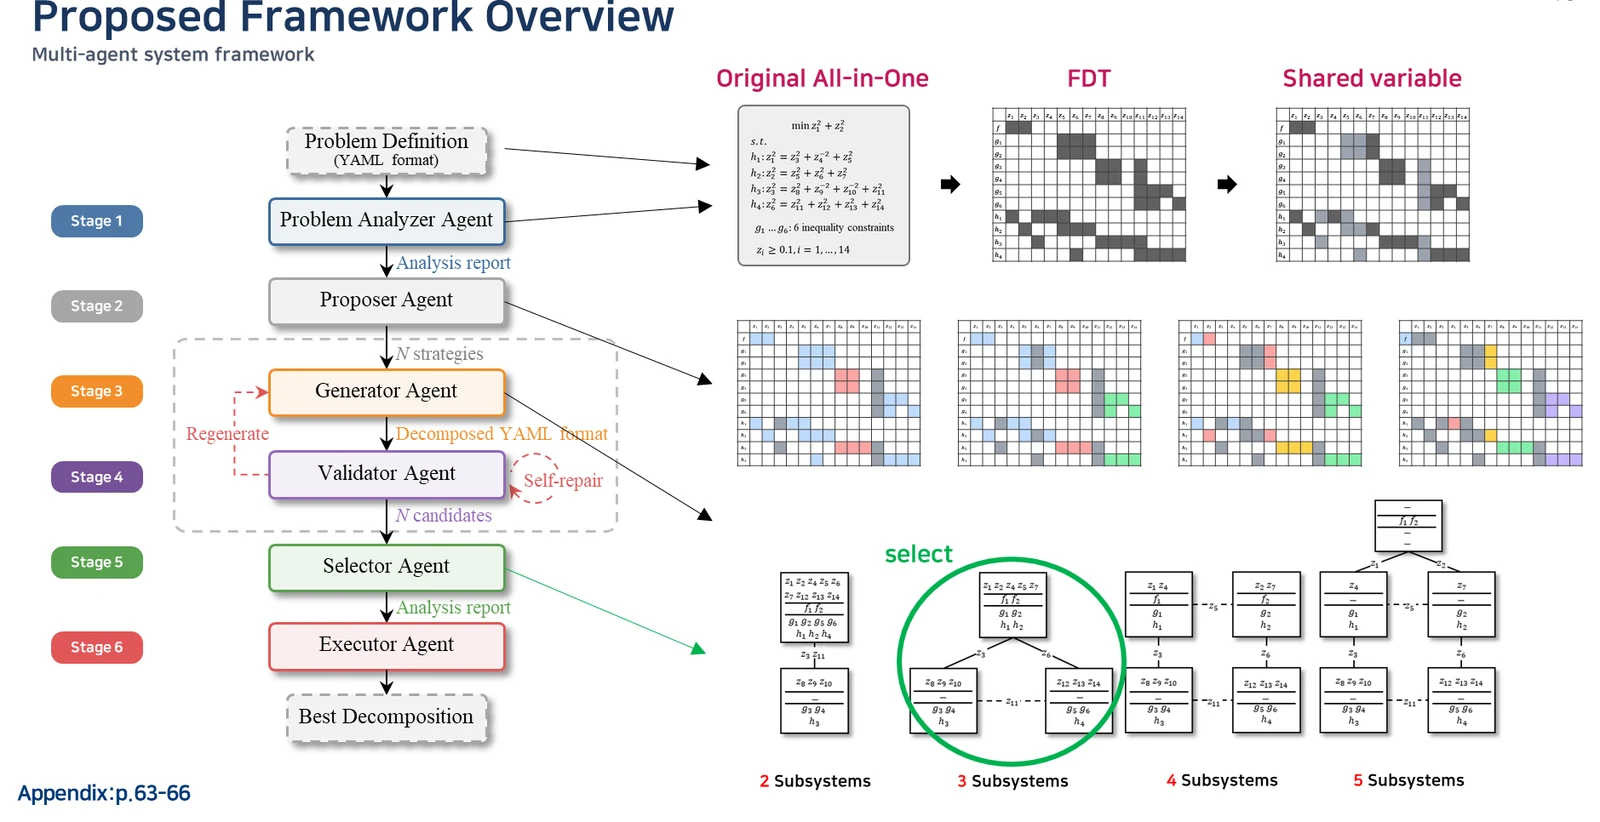
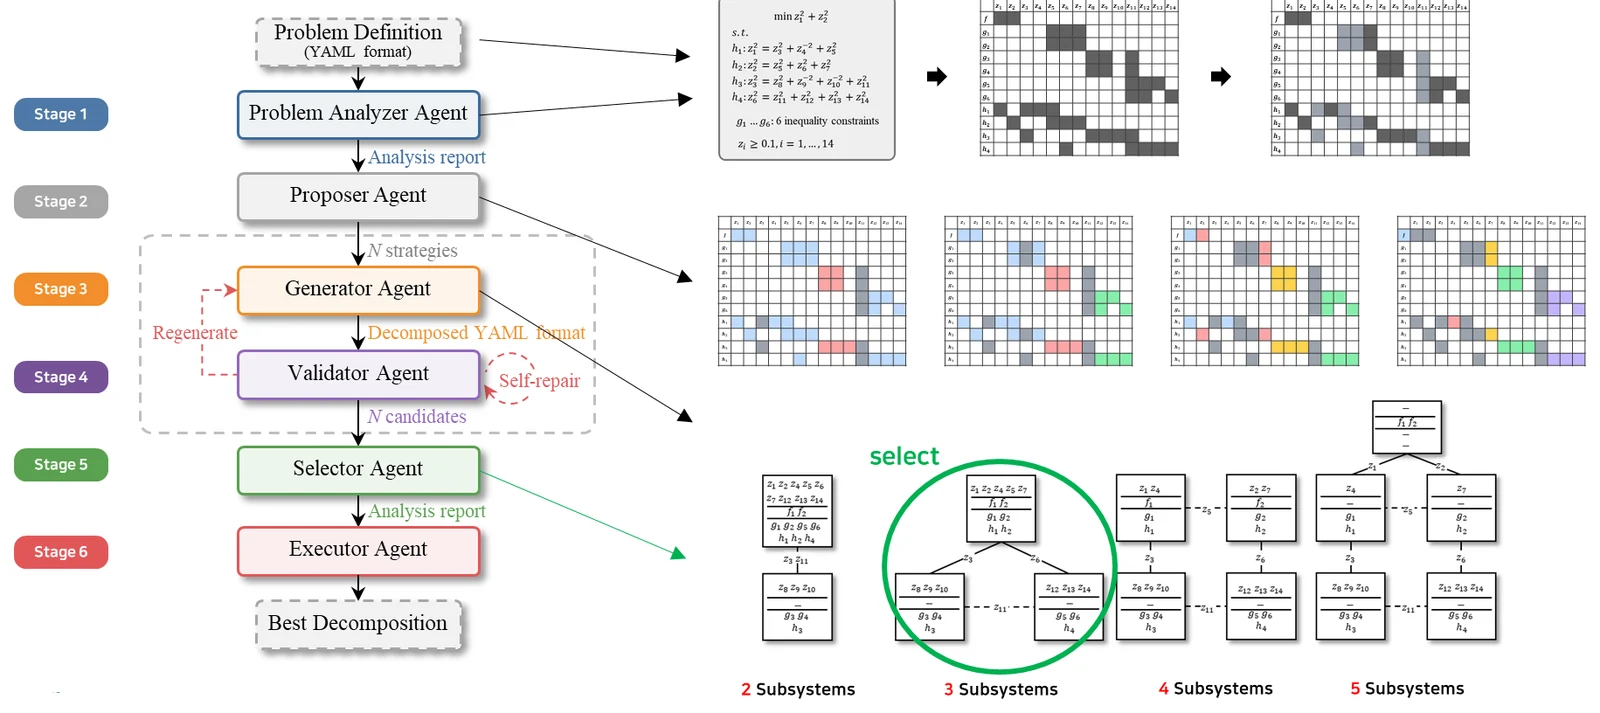
AI News: single toggled graph + trimmed header; refine research figures
AI News:
- Drop the "Curated daily AI updates" tagline.
- Replace the two stacked graph cards with one card that toggles between
  Overview (default, 30-day concept map) and Daily (selected-day items).
  Both views share one container/network/related panel; the per-day news
  list (GitHub / HF / GeekNews) stays visible under either view.

Research figures:
- LLM-Guided Adaptive Penalty: use proposal slide 31 (full framework
  overview) instead of 32.
- AutoATC: crop out the slide title and Appendix footer.
- DialogCAD: white background, and add a 2x1 right column with the CSG
  primitives and benchmark mechanical parts figures.

diff --git a/ai-news.html b/ai-news.html
@@ -97,14 +97,15 @@
       text-transform: none;
       letter-spacing: 0;
     }
-    #overview-graph, #daily-graph {
+    #concept-graph {
       width: 100%;
+      height: 560px;
       border: 1px solid #f0f0f0;
       border-radius: .375rem;
       background: #fafbfc;
     }
-    #overview-graph { height: 560px; }
-    #daily-graph    { height: 460px; }
+    .view-btn { font-size: .7rem !important; font-weight: 600 !important; text-transform: none !important; letter-spacing: 0 !important; padding: .2rem .6rem !important; }
+    .view-btn.active { background: #212529 !important; color: #fff !important; }
     .vis-network:focus { outline: none; }
     div.vis-tooltip {
       max-width: 320px;
@@ -305,9 +306,8 @@
     <div class="row justify-content-center mb-4">
       <div class="col-lg-10 text-center">
         <h1 class="section-title">AI News Daily</h1>
-        <p class="lead text-muted mb-1">Curated daily AI updates</p>
-        <p class="text-muted mb-1">GitHub Trending · Hugging Face Papers · GeekNews</p>
-        <p class="text-muted small">Automatically collected and updated every morning</p>
+        <p class="lead text-muted mb-1">GitHub Trending · Hugging Face Papers · GeekNews</p>
+        <p class="text-muted small mb-0">Automatically collected and updated every morning</p>
       </div>
     </div>
 
@@ -327,30 +327,25 @@
           </div>
         </div>
 
-        <!-- Section 1 · Overview map of concepts across the last N days -->
+        <!-- Concept graph — Overview (30d) / Daily toggle -->
         <div class="graph-card">
           <h6>
-            <span><i class="bi bi-diagram-3 me-1"></i>Overview <span class="subtitle" id="overview-subtitle">— concepts across the last 30 days</span></span>
+            <span><i class="bi bi-diagram-3 me-1"></i>Concept Graph <span class="subtitle" id="graph-subtitle">— concepts across the last 30 days</span></span>
+            <span class="btn-group btn-group-sm" role="group" aria-label="Graph view">
+              <button type="button" class="btn btn-outline-dark view-btn active" data-view="overview">Overview</button>
+              <button type="button" class="btn btn-outline-dark view-btn" data-view="daily">Daily</button>
+            </span>
           </h6>
-          <div id="overview-graph"></div>
-          <div id="overview-related" class="concept-related mt-3" style="display:none"></div>
-        </div>
-
-        <!-- Section 2 · Item-level relationship graph for the selected day -->
-        <div class="graph-card mt-4">
-          <h6>
-            <span><i class="bi bi-diagram-3 me-1"></i>Daily <span class="subtitle" id="daily-subtitle">— shared keywords across the selected day's items</span></span>
-          </h6>
-          <div id="daily-graph"></div>
-          <div class="graph-legend">
+          <div id="concept-graph"></div>
+          <div class="graph-legend" id="graph-legend-daily" style="display:none">
             <span><span class="dot" style="background:#f97316"></span>GitHub Trending</span>
             <span><span class="dot" style="background:#0d6efd"></span>HF Papers</span>
             <span><span class="dot" style="background:#198754"></span>GeekNews</span>
           </div>
-          <div id="daily-related" class="concept-related mt-3" style="display:none"></div>
+          <div id="concept-related" class="concept-related mt-3" style="display:none"></div>
         </div>
 
-        <!-- Section 3 · News list for the selected day -->
+        <!-- News list for the selected day (always shown, under either view) -->
         <div class="ai-news-layout mt-4">
           <!-- Desktop sidebar -->
           <div class="date-sidebar" id="date-sidebar">
@@ -455,6 +450,8 @@
       if (sel) sel.value = date;
       currentDate = date;
       renderNews(date);
+      // If the Daily graph is currently on screen, refresh it for the new date.
+      if (currentView === 'daily' && dataCache[date]) renderGraph(date, dataCache[date]);
     }
 
     function renderSidebar(dates, active) {
@@ -498,13 +495,14 @@
       sel.onchange = () => selectDate(sel.value);
     }
 
+    // Renders ONLY the day's news list (GitHub / HF / GeekNews). The graph area
+    // is driven separately by the Overview/Daily toggle.
     async function renderNews(date) {
       const panel = document.getElementById('news-panel');
       panel.innerHTML = `<div class="d-flex align-items-center justify-content-center py-5 text-muted">
         <div class="spinner-border spinner-border-sm me-2"></div>Loading…</div>`;
       const data = await loadDay(date);
       renderPanel(data);
-      renderGraph(date, data);
     }
 
     // ---- Concept graph ----
@@ -688,12 +686,12 @@
       return shortenLabel(englishTitle || (HANGUL_RE.test(koreanTitle) ? '' : koreanTitle), 18) || '—';
     }
 
-    let dailyNetwork = null;
-    let overviewNetwork = null;
+    // One graph container shared by both views; only one view is shown at a time.
+    let network = null;
 
     function renderGraph(date, data) {
-      const container = document.getElementById('daily-graph');
-      const subtitle = document.getElementById('daily-subtitle');
+      const container = document.getElementById('concept-graph');
+      const subtitle = document.getElementById('graph-subtitle');
       if (!container) return;
       if (!data) {
         container.innerHTML = '<div class="d-flex align-items-center justify-content-center h-100 text-muted small">No data.</div>';
@@ -770,8 +768,8 @@
       const edgeCount = edges.length;
       if (subtitle) subtitle.textContent = `— ${nodeCount} items · ${edgeCount} keyword links · ${date}`;
 
-      if (dailyNetwork) { dailyNetwork.destroy(); dailyNetwork = null; }
-      dailyNetwork = new vis.Network(container, { nodes, edges }, {
+      if (network) { network.destroy(); network = null; }
+      network = new vis.Network(container, { nodes, edges }, {
         layout: { randomSeed: 7, improvedLayout: true },
         physics: {
           enabled: true,
@@ -782,27 +780,27 @@
         interaction: { hover: true, tooltipDelay: 150, zoomView: true, dragView: true },
         edges: { width: 1, scaling: { min: 1, max: 6 } },
       });
-      dailyNetwork.on('click', params => {
-        const related = document.getElementById('daily-related');
+      network.on('click', params => {
+        const related = document.getElementById('concept-related');
         if (!params.nodes.length) {
-          if (related && related.style.display !== 'none') collapseDailyRelated();
+          if (related && related.style.display !== 'none') collapseRelated();
           return;
         }
         const clickedId = params.nodes[0];
         if (related && related.style.display !== 'none' && related.dataset.itemId === clickedId) {
-          collapseDailyRelated();
+          collapseRelated();
           return;
         }
         const node = nodes.find(n => n.id === clickedId);
         if (!node) return;
         showRelatedItems(node, items, itemConcepts, sourceName);
       });
-      const relatedEl = document.getElementById('daily-related');
-      if (relatedEl) { relatedEl.style.display = 'none'; relatedEl.dataset.itemId = ''; }
+      const relatedEl = document.getElementById('concept-related');
+      if (relatedEl) { relatedEl.style.display = 'none'; relatedEl.dataset.itemId = ''; relatedEl.dataset.concept = ''; }
     }
 
     function showRelatedItems(clickedNode, items, itemConcepts, sourceName) {
-      const el = document.getElementById('daily-related');
+      const el = document.getElementById('concept-related');
       if (!el) return;
       const concepts = clickedNode._concepts || [];
       const primary = concepts[0];
@@ -837,32 +835,26 @@
       el.innerHTML = `
         <div class="related-header">
           <div class="title">${headerTitle} <span class="text-muted fw-normal">· ${related.length}</span></div>
-          <button type="button" class="close-btn daily-close" aria-label="close">&times;</button>
+          <button type="button" class="close-btn related-close" aria-label="close">&times;</button>
         </div>
         ${rows}`;
       el.style.display = 'block';
       el.dataset.itemId = clickedNode.id;
-      el.querySelector('.daily-close').addEventListener('click', collapseDailyRelated);
+      el.dataset.concept = '';
+      el.querySelector('.related-close').addEventListener('click', collapseRelated);
       showFloatingCollapse();
       el.scrollIntoView({ behavior: 'smooth', block: 'nearest' });
     }
 
-    function collapseDailyRelated() {
-      const el = document.getElementById('daily-related');
+    // Shared collapse for both views (single related panel + single network).
+    function collapseRelated() {
+      const el = document.getElementById('concept-related');
       if (!el) return;
       el.style.display = 'none';
       el.dataset.itemId = '';
-      if (dailyNetwork) dailyNetwork.unselectAll();
-      if (!isOverviewOpen()) hideFloatingCollapse();
-    }
-
-    function isOverviewOpen() {
-      const el = document.getElementById('overview-related');
-      return el && el.style.display !== 'none';
-    }
-    function isDailyOpen() {
-      const el = document.getElementById('daily-related');
-      return el && el.style.display !== 'none';
+      el.dataset.concept = '';
+      if (network) network.unselectAll();
+      hideFloatingCollapse();
     }
 
     // ---- Overview (30-day concept graph) ----
@@ -890,8 +882,8 @@
     }
 
     async function renderOverview() {
-      const container = document.getElementById('overview-graph');
-      const subtitle = document.getElementById('overview-subtitle');
+      const container = document.getElementById('concept-graph');
+      const subtitle = document.getElementById('graph-subtitle');
       container.innerHTML = '<div class="d-flex align-items-center justify-content-center h-100 text-muted small"><div class="spinner-border spinner-border-sm me-2"></div>Aggregating 30 days…</div>';
 
       await buildOverviewData();
@@ -942,8 +934,8 @@
 
       if (subtitle) subtitle.textContent = `— ${nodes.length} concepts · ${edges.length} co-occurrence links · last ${allDates.length} days`;
 
-      if (overviewNetwork) { overviewNetwork.destroy(); overviewNetwork = null; }
-      overviewNetwork = new vis.Network(container, { nodes, edges }, {
+      if (network) { network.destroy(); network = null; }
+      network = new vis.Network(container, { nodes, edges }, {
         layout: { randomSeed: 42, improvedLayout: true },
         nodes: { scaling: { min: 10, max: 44, label: { enabled: false } } },
         edges: { width: 1, scaling: { min: 1, max: 8 } },
@@ -955,27 +947,27 @@
         },
         interaction: { hover: true, tooltipDelay: 150, zoomView: true, dragView: true },
       });
-      overviewNetwork.on('click', params => {
-        const related = document.getElementById('overview-related');
+      network.on('click', params => {
+        const related = document.getElementById('concept-related');
         if (!params.nodes.length) {
-          if (related && related.style.display !== 'none') collapseOverviewRelated();
+          if (related && related.style.display !== 'none') collapseRelated();
           return;
         }
         const clicked = params.nodes[0];
         if (related && related.style.display !== 'none' && related.dataset.concept === clicked) {
-          collapseOverviewRelated();
+          collapseRelated();
           return;
         }
         showOverviewRelated(clicked);
       });
-      const relatedEl = document.getElementById('overview-related');
-      if (relatedEl) relatedEl.style.display = 'none';
+      const relatedEl = document.getElementById('concept-related');
+      if (relatedEl) { relatedEl.style.display = 'none'; relatedEl.dataset.itemId = ''; relatedEl.dataset.concept = ''; }
     }
 
     const SOURCE_NAME = { gh: 'GitHub Trending', hf: 'HF Papers', gn: 'GeekNews' };
 
     function showOverviewRelated(concept) {
-      const el = document.getElementById('overview-related');
+      const el = document.getElementById('concept-related');
       if (!el) return;
       const related = overviewItems.filter((_, idx) => overviewItemConcepts[idx].includes(concept));
       // Sort newest first, group by date
@@ -1004,23 +996,15 @@
       el.innerHTML = `
         <div class="related-header">
           <div class="title"><span class="concept-chip">${concept}</span> <span class="text-muted fw-normal">· ${related.length} across ${allDates.length} days</span></div>
-          <button type="button" class="close-btn overview-close" aria-label="close">&times;</button>
+          <button type="button" class="close-btn related-close" aria-label="close">&times;</button>
         </div>
         ${rows.join('')}`;
       el.style.display = 'block';
       el.dataset.concept = concept;
-      el.querySelector('.overview-close').addEventListener('click', collapseOverviewRelated);
+      el.dataset.itemId = '';
+      el.querySelector('.related-close').addEventListener('click', collapseRelated);
       showFloatingCollapse();
       el.scrollIntoView({ behavior: 'smooth', block: 'nearest' });
-    }
-
-    function collapseOverviewRelated() {
-      const el = document.getElementById('overview-related');
-      if (!el) return;
-      el.style.display = 'none';
-      el.dataset.concept = '';
-      if (overviewNetwork) overviewNetwork.unselectAll();
-      if (!isDailyOpen()) hideFloatingCollapse();
     }
 
     function showFloatingCollapse() {
@@ -1033,13 +1017,29 @@
     }
 
     document.getElementById('floating-collapse').addEventListener('click', () => {
-      // Scroll target = the graph whose panel is open (before we close it)
-      const scrollTarget = isOverviewOpen()
-        ? document.getElementById('overview-graph')
-        : (isDailyOpen() ? document.getElementById('daily-graph') : null);
-      collapseOverviewRelated();
-      collapseDailyRelated();
-      if (scrollTarget) scrollTarget.scrollIntoView({ behavior: 'smooth', block: 'start' });
+      const graph = document.getElementById('concept-graph');
+      collapseRelated();
+      if (graph) graph.scrollIntoView({ behavior: 'smooth', block: 'start' });
+    });
+
+    // ---- View toggle: Overview (default) / Daily ----
+    let currentView = 'overview';
+
+    async function setView(view) {
+      if (view === currentView) return;
+      currentView = view;
+      document.querySelectorAll('.view-btn').forEach(b => b.classList.toggle('active', b.dataset.view === view));
+      document.getElementById('graph-legend-daily').style.display = view === 'daily' ? '' : 'none';
+      collapseRelated();
+      if (view === 'overview') {
+        await renderOverview();
+      } else if (currentDate && dataCache[currentDate]) {
+        renderGraph(currentDate, dataCache[currentDate]);
+      }
+    }
+
+    document.querySelectorAll('.view-btn').forEach(btn => {
+      btn.addEventListener('click', () => setView(btn.dataset.view));
     });
 
     // Language toggle — re-render from JS cache, no network fetch
@@ -1048,13 +1048,15 @@
         document.querySelectorAll('.lang-btn').forEach(b => b.classList.remove('active'));
         btn.classList.add('active');
         currentLang = btn.dataset.lang;
-        if (currentDate && dataCache[currentDate]) {
-          renderPanel(dataCache[currentDate]);
-          renderGraph(currentDate, dataCache[currentDate]);
+        // News list is always visible — refresh it.
+        if (currentDate && dataCache[currentDate]) renderPanel(dataCache[currentDate]);
+        // Refresh the graph / open related list for the active view.
+        if (currentView === 'daily') {
+          if (currentDate && dataCache[currentDate]) renderGraph(currentDate, dataCache[currentDate]);
+        } else {
+          const selected = network && network.getSelectedNodes && network.getSelectedNodes()[0];
+          if (selected) showOverviewRelated(selected);
         }
-        // Overview graph itself is language-agnostic; just refresh any open related list.
-        const selected = overviewNetwork && overviewNetwork.getSelectedNodes && overviewNetwork.getSelectedNodes()[0];
-        if (selected) showOverviewRelated(selected);
       });
     });
 
@@ -1068,8 +1070,8 @@
       allDates = dates;
       currentDate = dates[0];
       renderSidebar(dates, currentDate);
-      await renderNews(currentDate);          // fills news panel + daily graph
-      renderOverview().catch(err => console.error('overview failed', err));
+      await renderNews(currentDate);      // news list (always visible)
+      await renderOverview();             // Overview is the default graph view
     }
 
     init();
